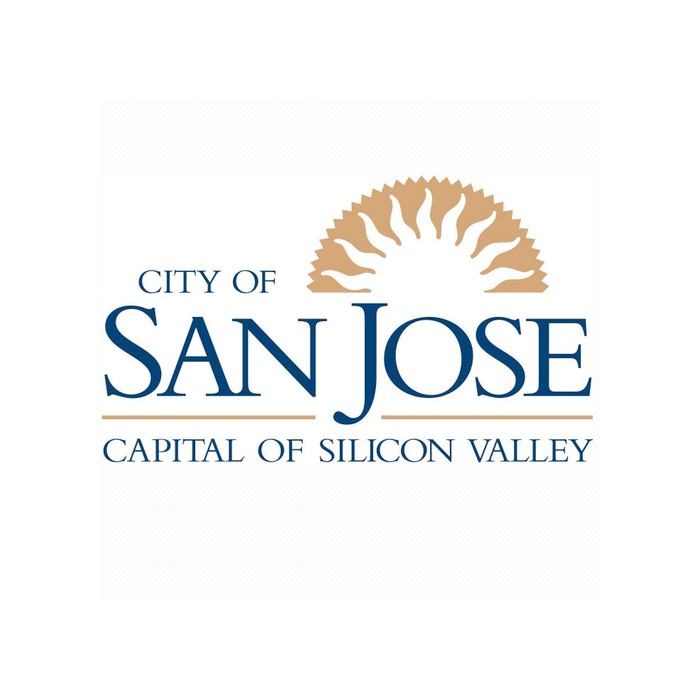
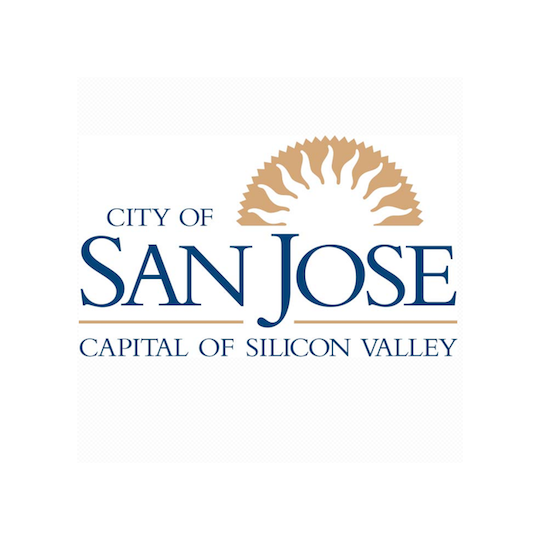
Staging (#19)
* Added incident aid logo

* incident aid logo updates

* Edited website to show recap and 2018 winners

* Reduced size of images to improve loading speed

diff --git a/index.html b/index.html
@@ -87,7 +87,9 @@
                           <div class="row">
                             <div class="col-sm-12 text-center">
                               <a href="#about" class="btn btn-outline btn-xl page-scroll btn-hero inline-button">Learn More!</a>
-                              <a href="https://goo.gl/forms/vYGtLmXA7aduu2qi2" target="_blank" class="btn btn-outline btn-xl inline-button">Sign Up</a>
+                              <!-- SIGN UP BUTTON DEACTIVATED
+                                <a href="https://goo.gl/forms/vYGtLmXA7aduu2qi2" target="_blank" class="btn btn-outline btn-xl inline-button">Sign Up</a>
+                              -->
                             </div>
                           </div>
                         </div>
@@ -104,7 +106,7 @@
                     <div class="section-heading">
                         <h2> Santa Clara University's social good hackathon </h2>
                         <h3> March 3-4 in Locatelli </h3>
-                        <p class="text-muted">Join us in our fifth year of solving pressing social issues using your creativity and code</p>
+                        <p class="text-muted">Thank you for joining us in our fifth year of solving pressing social issues using your creativity and code</p>
                         <hr>
                     </div>
                 </div>
@@ -151,7 +153,7 @@
                                 <div class="feature-item">
 <!--                                    <i class="icon-present text-primary"></i>-->
                                     <h3>How big can my team be?</h3>
-                                    <p class="text-muted">We will require all teams to be comprised of 2-6 people.</p>
+                                    <p class="text-muted">We require all teams to be comprised of 2-6 people.</p>
                                 </div>
                             </div>
                             <div class="col-md-4 col-sm-6">
@@ -177,7 +179,7 @@
                 <div class="col-md-10 col-md-offset-1">
                     <div class="container-fluid">
                         <div class="row text-center">
-                            <h2>Event Itinerary</h3>
+                            <h2>Event Recap</h3>
                         </div>
                         <div class="row">
                             <div class="col-md-6 text-center">
@@ -307,7 +309,7 @@
             </div>
         </div>
     </section>
-
+<!-- TEMPORARILY HIDING LAST YEAR'S SPONSORS
     <section id="past-sponsors" class="sponsors bg-primary text-center">
         <hr class="sponsor-cutoff">
         <div class="container">
@@ -332,9 +334,6 @@
                             <div class="col-md-3 col-xs-4">
                                 <center><img class="badge-link" src="img/sanJose.png" alt=""></center>
                             </div>
-                            <!--<div class="col-md-3 col-xs-4">
-                                <center><img class="badge-link" src="img/redBull.jpg" alt=""></center>
-                            </div>-->
                             <div class="col-md-3 col-xs-4">
                                 <center><img class="badge-link" src="img/IEEESight.jpg" alt=""></center>
                             </div>
@@ -347,13 +346,15 @@
             </div>
         </div>
     </section>
+-->
 
     <section id="recap" class="recap">
         <div class="container">
             <div class="row">
                 <div class="col-sm-12 text-center">
                     <div class="section-heading">
-                        <h2> Last Year's Hack for Humanity Recap! </h2>
+                        <h2> Hack for Humanity Recap! </h2>
+                        <h4> Take a closer look at what people built on <a href="https://hack-for-humanity-2018.devpost.com/submissions">our Devpost contest</a>. </h4>
                         <hr>
                     </div>
                 </div>
@@ -362,31 +363,40 @@
                 <div class="col-md-12">
                     <div class="container-fluid">
                         <div class="row">
-                            <h3 class="text-center"> First Place </h3>
+                            <h3 class="text-center"> First Place: Vigil </h3>
                             <img src="img/1stPlace.jpg" alt="1stPlace" align="middle">
                         </div>
                         <br>
-                        <p> SymTome is a platform that connects doctors and patients in remote regions. It allows doctors to analyze health trends and distribute themselves in the best way possible when those that are ill far outnumber those who can help. The application is primarily targeted for helping individuals in third world countries who need healthcare.</p>
-                        <p> The application consists of two major components: an Amazon Alexa skill and a web application. In our implementation, the Alexa skill was running on an Amazon echo, but Alexa can run on a variety of platforms, including low-cost single board computers like the Raspberry Pi. The devices running the Alexa skill will be deployed to central areas of remote village, where hopefully everyone can access.</p>
+                        <p>Vigil aims to provide better communication between police officers and
+                        stranded students during live school shootings. As an organized
+                        emergency response system, Vigil provides strategic evacuation routes,
+                        fewer injuries and fatalities, and the ability to locate the shooter
+                        in a timely manner.</p>
+                        <p>Our web application consists of a police and student interface. We
+                        used HTML5, CSS3, Javascript for our UI as well as the Google maps
+                        API. We used phpMyAdmin for our backend database, along with mySQL and
+                        AJAX.</p>
                         <br>
                         <br>
                         <br>
                         <div class="row">
-                            <h3 class="text-center"> Second Place </h3>
+                            <h3 class="text-center"> Second Place: DNKRK </h3>
                             <img src="img/2ndPlace.jpg" alt="2ndPlace" align="middle">
                         </div>
                         <br>
-                        <p>San Jose consists of various objects &amp; areas that you can adopt, however the issue of a lack of adoptions presented by the representative from the city of San Jose seemed to stem from the absence of an easy way to do so. TreesGo aims to make adopting trees in the San Jose area easy and enjoyable by turning the system into a game much like Pokemon Go. </p>
-                        <p>Our web application consisted of both a front-end and a back-end. Our front-end interface was constructed using HTML, CSS, JavaScript, the Bootstrap framework, KnockOut.js, and some Google APIs. On the back end, we utilized RubyOnRails and SQLite3. </p>
+                        <p>DNKRK (Distributed Network Kernel &amp; Response Kit) is a platform for data collection when wide-spread internet connectivity is lost following natural disasters in highly populated areas with poor infrastructure, such as in Puerto Rico after Hurricane Maria. Over 24 hours, we developed three working parts to this platform: a bluetooth mesh network, a mobile application, and a web application. </p>
+                        <p>The bluetooth mesh network enables users to communicate data from our mobile application within a local network over bluetooth. The data collected from every node is stored in each phone in the network, and when a member of this network connects to the internet via a satellite phone or other internet connection, the data is pushed to our web application. We implemented routing algorithms and duplicate-data checks to ensure efficient communication. </p>
+                        <p>The mobile application has a form to collect valuable data including: number in group, presence of children or elderly, emergency status level, and status details such as being trapped or in the presence of fire. The profile is able to be updated as a group’s status or information changes. </p>
+                        <p>The web application then presents this data through heat-map overlays on top of Google Maps. The web dashboard allows first responders to see where population is most dense and draw important conclusions. For example, if many people in a certain area report being trapped, the responders can fairly assume a building has collapsed and send help immediately. </p>
                         <br>
                         <br>
                         <br>
                         <div class="row">
-                            <h3 class="text-center"> Third Place </h3>
+                            <h3 class="text-center"> Third Place: Disaster Data Drone </h3>
                             <img src="img/3rdPlace.jpg" alt="3rdPlace" align="middle">
                         </div>
                         <br>
-                        <p>Helping Hand is a mobile application that bridges the communication gap between service organizations and the beneficiaries of those services. When users make an account and login, they can easily see events that interest them and sort by different criteria. The mobile application serves Android, iOS, and any other phone that can send text message queries to our server! </p><p>Our application was built using HTML, CSS, Bootstrap, JavaScript/jQuery for the front-end. On the back-end, we utilized firebase as our database, twilio to handle our messaging queries, python for our scripting with the Yelp APIs, and AWS to host our server.</p>
+                        <p>In the event of a disaster, there is a high likely hood of communication and network infrastructure to be damaged causing there to be a lack of communication between those in the disaster areas and those not. In order to combat this, we created a system that would help relay and gather data from disaster areas via drones. We simulated a router and micro-controller set up that would be attached to a number of drones to be deployed in disaster areas. We imagine there would be a swarm of drones being sent out to an area where users would automatically connect to the mesh network the drones are transmitting. We used an off the shelf router and an Intel Edison to send and collect data from users on the ground through an iOS application. We created an iOS application that would easily allow users to send their status to the drone and eventually first responders or other aid organizations. In order to prevent loss of data from destruction of drones, we created a way for the micro-controllers to be listening for other drones and when they would be in range of each other, they would exchange the data given by the users. This would guarantee the data from the users, like location and status, would get to first responders or other aid organizations.</p>
                         <br>
                         <br>
                         <br>
